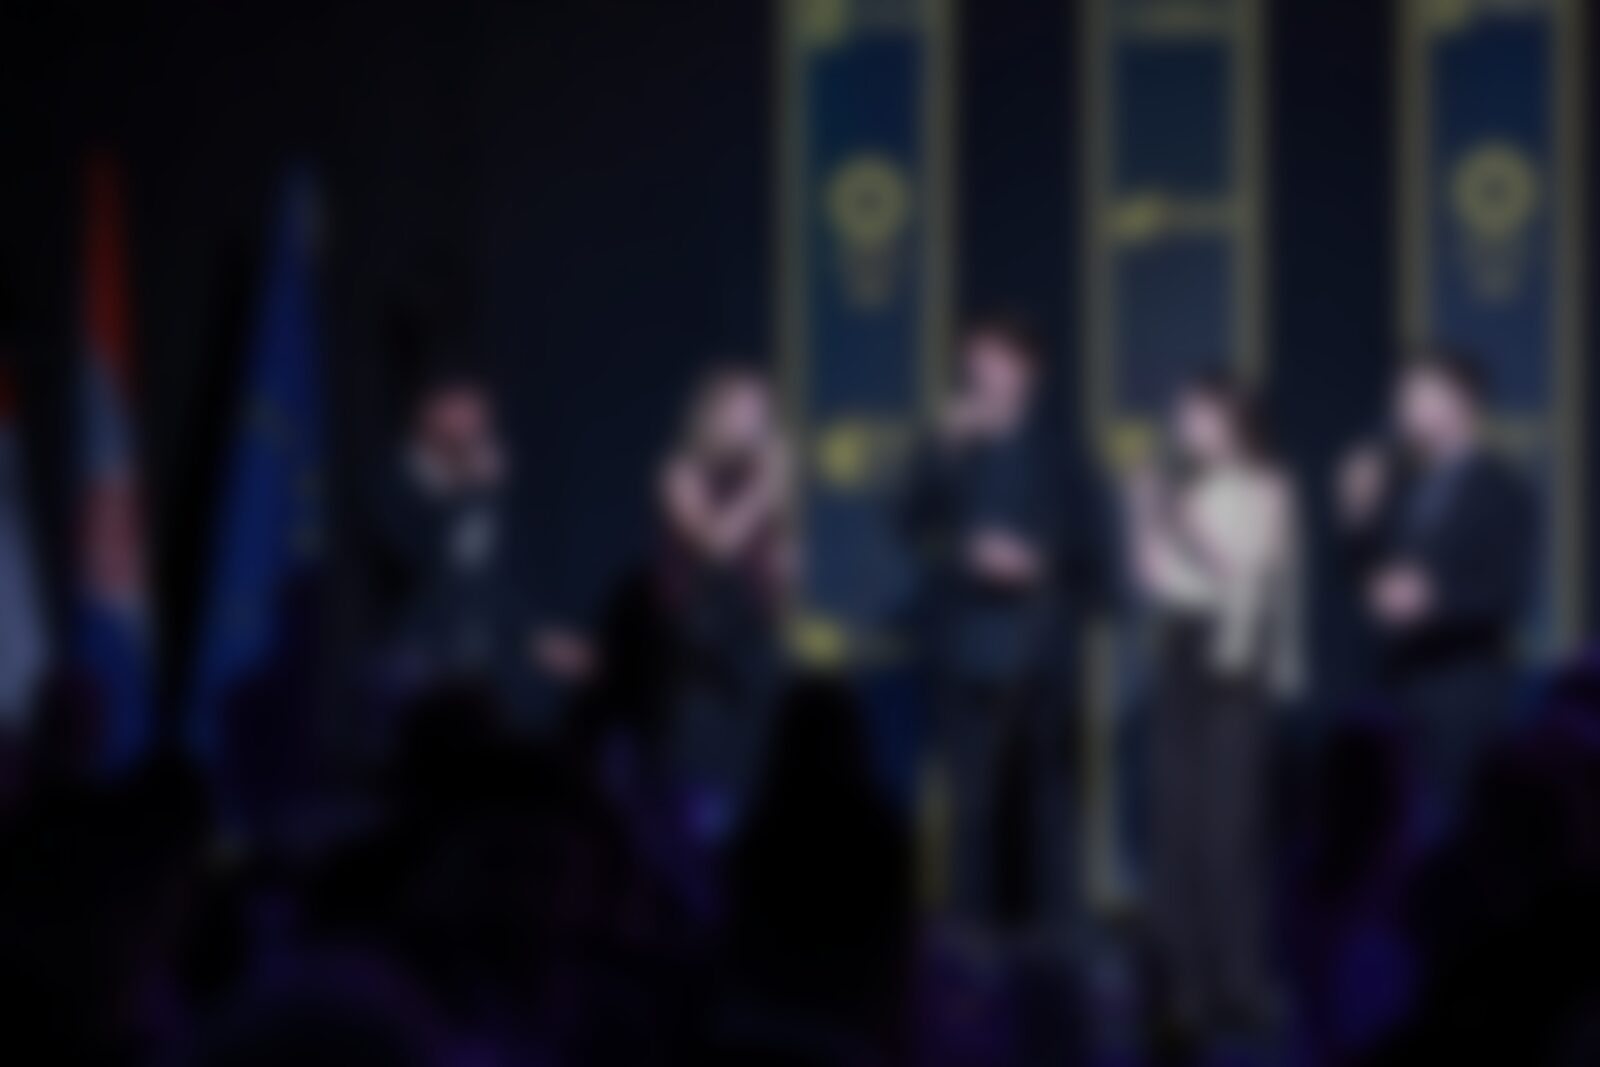
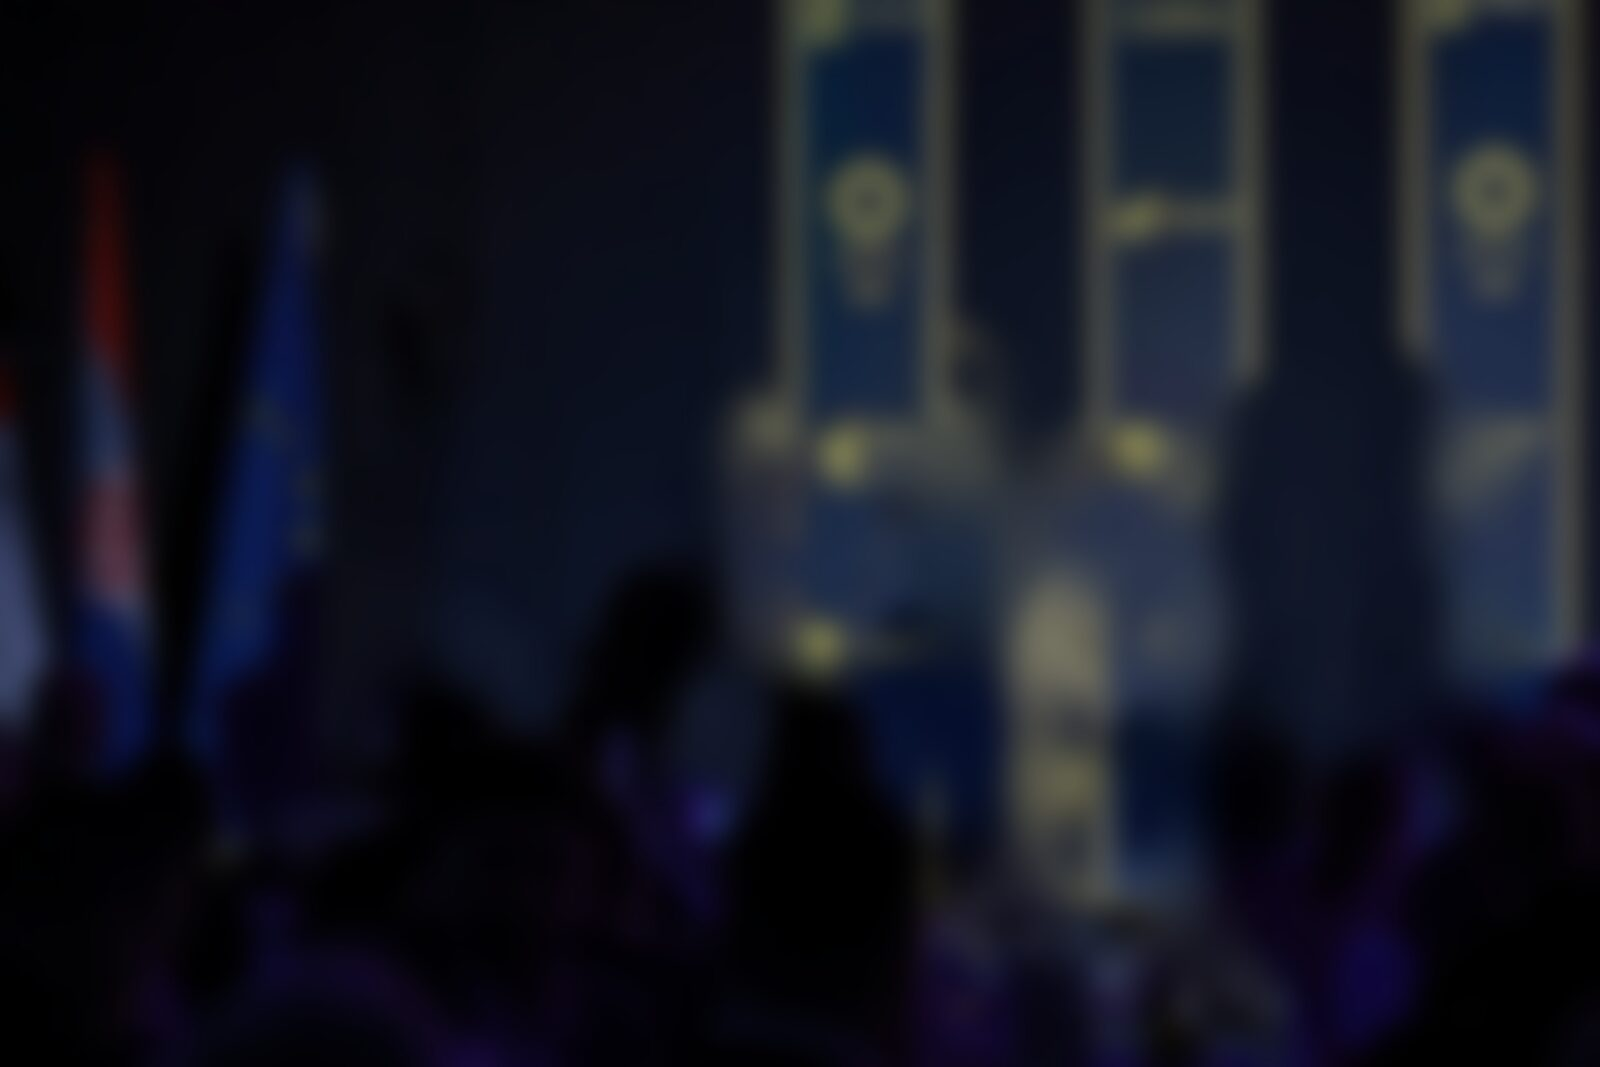
Home hero: crop per breakpoint, clean matte, soft light rim (#67) (#69)
* Home hero: crop per breakpoint, clean matte, soft light rim (#67)

Desktop anchors the five right of the lead, so no text crosses a face,
hand or microphone; phones and every portrait screen get a 17:9 window
from just above the heads to the thighs (the portrait tablet lost
singer 5). The matte gets tight second tiles for singers 2-4, a close
for the stands, a steep ramp, a hole fill and drawn fixes; the far
plane has the singers inpainted out, so no ghost halo. A new rim plane
puts a soft white back-light around the five (Josip chose it over a
sticker stroke or a frame).

* Hero: lift without --fig-w, heads below the headline on short windows, review tidy (#67)

* Remove the PR screenshots

* Hero: size the singers' box from the stage's real height, never under 34rem (#67, review round 2)

On a window shorter than 34rem plus the header the stage keeps its
min-block-size, so --stage-h undersized the box and the headline cap
could reach zero.

---------

diff --git a/src/data/photos.ts b/src/data/photos.ts
@@ -25,6 +25,7 @@ import stageZlokicJozinovic from '@/assets/photos/stage-zlokic-jozinovic.jpg';
 // Home (ticket B): the hero's depth planes and the chord's five portraits.
 import heroFar from '@/assets/photos/home/hero-far.jpg';
 import heroFront from '@/assets/photos/home/hero-front.webp';
+import heroRim from '@/assets/photos/home/hero-rim.webp';
 import heroSubject from '@/assets/photos/home/hero-subject.webp';
 import portraitAnte from '@/assets/photos/home/portrait-ante.jpg';
 import portraitDavid from '@/assets/photos/home/portrait-david.jpg';
@@ -198,13 +199,15 @@ export const SHARE_PHOTO: PhotoKey = 'unisportStage';
  * (Westin, Zagreb; Drive `2026 Hrvatski Akademski Sportski Savez` ›
  * `Unisport_stars_R1JC7655_JC.jpg`, all five singing) and sharing its
  * 1800×1200 crop (3:2), so they line up by stacking. `far` is the whole crop
- * at 1600 px, defocused and dimmed, `subject` the five singers on alpha (Apple Vision
- * person matte, one tile per singer), `front` the audience below the stage
- * line. Recipe: docs/home/BRIEF.md › Hero planes.
+ * at 1600 px with the singers taken out, defocused and dimmed, `subject` the five
+ * singers on alpha (Apple Vision person matte, one tile per singer), `rim` a soft
+ * white back-light around them (#67), `front` the audience below the stage line.
+ * Recipe: docs/home/BRIEF.md › Hero planes.
  */
 export const HERO_PLANES = {
   far: heroFar,
   subject: heroSubject,
+  rim: heroRim,
   front: heroFront,
   alt: {
     en: 'The five singers of Voxford singing at microphones on the Unisport Stars gala stage, the audience in silhouette in front',

diff --git a/scripts/hero-planes/planes.py b/scripts/hero-planes/planes.py
@@ -1,8 +1,8 @@
-"""Build the home hero planes (far, subject, front) from the 1800x1200 crop and
+"""Build the home hero planes (far, subject, front, rim) from the 1800x1200 crop and
 the per-tile Vision mattes that scripts/hero-planes/build.sh writes into <work>."""
 import sys
 import numpy as np
-from PIL import Image, ImageFilter
+from PIL import Image, ImageDraw, ImageFilter
 
 d = sys.argv[1]
 crop = Image.open(f'{d}/crop.png').convert('RGB')
@@ -14,6 +14,18 @@ def ramp(a, b):  # 1 above a, 0 below b
 
 def ramp_down(a, b):  # 0 above a, 1 below b
     return 1 - ramp(a, b)
+
+def to_image(a):  # a 0..1 float array as an 8-bit greyscale image
+    return Image.fromarray((np.clip(a, 0, 1) * 255).astype(np.uint8))
+
+def to_array(img):  # an 8-bit greyscale image as a 0..1 float array
+    return np.asarray(img, np.float32) / 255
+
+def filled(mask):  # a boolean mask with every enclosed hole filled
+    pad = Image.new('L', (W + 2, H + 2), 0)
+    pad.paste(to_image(mask), (1, 1))
+    ImageDraw.floodfill(pad, (0, 0), 128)
+    return np.asarray(pad, np.uint8)[1:-1, 1:-1] != 128
 
 # Singers: tile x offset, tile y offset, column x0..x1, fade start..end
 singers = [
@@ -29,6 +41,19 @@ for i, tx, ty, x0, x1, f0, f1 in singers:
     full = np.zeros((H, W), np.float32)
     h, w = m.shape
     full[ty:ty + h, tx:tx + w] = m[: H - ty, : W - tx]
+    for bi, bx, by in ((2, 690, 380), (3, 975, 330), (4, 1215, 400)):
+        if i == bi:
+            mb = np.asarray(Image.open(f'{d}/tmask{i}b.png').convert('L'), np.float32) / 255
+            hb, wb = mb.shape
+            if i == 4:
+                # Singer 4's wide tile takes a block of the sponsor banner around
+                # her hand and microphone; the tight one alone is clean.
+                full[:] = 0
+            full[by:by + hb, bx:bx + wb] = np.maximum(full[by:by + hb, bx:bx + wb], mb)
+    # Close the narrow gaps a microphone stand cuts through a singer: the
+    # stand stands in front of them, so it belongs to this plane.
+    closed = to_array(to_image(full > 0.3).filter(ImageFilter.MaxFilter(25)).filter(ImageFilter.MinFilter(25)))
+    full = np.maximum(full, closed)
     col = np.zeros((1, W), np.float32)
     col[0, x0:x1] = 1
     full *= col * ramp(f0, f1)
@@ -40,8 +65,46 @@ drape = np.zeros((H, W), np.float32)
 drape[500:800, 1395:1480] = np.clip((lum[500:800, 1395:1480] - 0.42) / 0.18, 0, 1)
 subject = np.maximum(subject, drape * ramp(1090, 1150))
 
-# Clean the matte: drop faint noise, keep soft edges.
-subject = np.clip((subject - 0.08) / 0.32, 0, 1)
+# Clean the matte: drop faint noise, keep soft edges. Vision's outlines are
+# crisp; its faint values sit inside dark clothes and on the microphones, so a
+# low, steep ramp makes those solid without growing a halo.
+subject = np.clip((subject - 0.04) / 0.16, 0, 1)
+# Fill what the matte still encloses (singer 4's dark trousers): a hole there
+# showed the far plane through her.
+hard = subject > 0.5
+subject = np.maximum(subject, (filled(hard) & ~hard).astype(np.float32))
+
+# Hand fixes, after the hole fill so it cannot close them again.
+# Singer 2's tight tile takes in the gold foundation logo beside her hip.
+box = (slice(600, 820), slice(860, 990))
+rgbf = np.asarray(crop, np.float32)[box]
+gold = (rgbf[..., 0] - rgbf[..., 2] > 50) & (rgbf[..., 1] > 80)
+subject[box][gold] = 0
+# ...and a stand and a dark audience head on either side of her.
+subject[560:760, 945:990] = 0
+subject[620:800, 700:742] = 0
+# Vision takes a block of the sponsor banner (navy ground, logo, lettering)
+# around singer 4's hand and microphone. Inside that block keep only the
+# microphone and her hand, drawn by hand on the 1800x1200 crop.
+keep = Image.new('L', (W, H), 0)
+draw = ImageDraw.Draw(keep)
+draw.line([(1250, 542), (1332, 488)], fill=255, width=15)
+draw.polygon([(1270, 506), (1300, 499), (1303, 522), (1299, 536), (1301, 582), (1270, 582), (1266, 546)], fill=255)
+keep = np.asarray(keep.filter(ImageFilter.GaussianBlur(1)), np.float32) / 255
+box = (slice(478, 582), slice(1246, 1322))
+subject[box] = np.minimum(subject[box], keep[box])
+# The lettering runs on under her chin, left of her hair: drop its navy
+# ground and pale or yellow letters there; her hair is darker than all three.
+box = (slice(518, 550), slice(1299, 1346))
+r, g, b = (np.asarray(crop, np.float32)[box][..., k] for k in range(3))
+lo, hi = np.minimum(np.minimum(r, g), b), np.maximum(np.maximum(r, g), b)
+subject[box][(b > r) | ((lo > 140) & (hi - lo < 70)) | ((r - b > 40) & (g > 100) & (np.abs(r - g) < 50))] = 0
+# Above that, beside her chin, one yellow letter and its navy ground.
+box = (slice(486, 518), slice(1318, 1340))
+r, g, b = (np.asarray(crop, np.float32)[box][..., k] for k in range(3))
+subject[box][(b > r) | ((r - b > 40) & (g > 100) & (np.abs(r - g) < 50))] = 0
+# Singer 4's tight tile takes in an audience head beside her legs; the front row has it.
+subject[860:1150, 1440:1490] = 0
 subject = np.asarray(Image.fromarray((subject * 255).astype(np.uint8)).filter(ImageFilter.GaussianBlur(1.2)), np.float32) / 255
 
 # Front: the audience. Vision finds the lit heads on the left; the dark band
@@ -61,9 +124,40 @@ for name, a in (('subject', subject), ('front', front)):
     rgba = np.dstack([rgb, (a * 255).astype(np.uint8)])
     Image.fromarray(rgba, 'RGBA').save(f'{d}/hero-{name}.png')
 
+# Rim: a soft white back-light around the five, under the subject (#67). Drawn
+# from the matte with its holes filled and its specks opened away, and faded
+# out above each singer's cut line, where the front row takes over.
+solid = to_image(filled(subject > 0.5)).filter(ImageFilter.MinFilter(13)).filter(ImageFilter.MaxFilter(13))
+fade = np.ones((H, W), np.float32)
+for _, _, _, x0, x1, f0, _ in singers:
+    fade[:, x0:x1] = np.clip((f0 - 30 - ys) / 90, 0, 1)
+glow = to_array(solid.filter(ImageFilter.MaxFilter(9)).filter(ImageFilter.GaussianBlur(10)))
+rim = np.clip(glow - to_array(solid.filter(ImageFilter.GaussianBlur(1.5))), 0, 1) * fade * 0.55
+rgba = np.zeros((H, W, 4), np.uint8)
+rgba[..., :3] = 255
+rgba[..., 3] = (rim * 255).astype(np.uint8)
+Image.fromarray(rgba, 'RGBA').save(f'{d}/hero-rim.png')
+
 # Far: the whole frame, defocused, dimmed and a little desaturated so the
 # sponsor banners read as light, not logos.
-far = crop.resize((1600, 1067), Image.LANCZOS).filter(ImageFilter.GaussianBlur(14))
+# The singers are taken out first: blurred in place they left a soft ghost
+# around each sharp singer, which read as a cut-out halo. Their area is filled
+# from the backdrop around it (normalised blur), then the whole frame is defocused.
+hole = np.asarray(Image.fromarray((subject * 255).astype(np.uint8)).filter(ImageFilter.MaxFilter(9)).filter(ImageFilter.GaussianBlur(4)), np.float32) / 255
+src = np.asarray(crop, np.float32)
+known = hole < 0.02
+fill = src * known[:, :, None]
+def blur(a, r):
+    return np.asarray(Image.fromarray(np.clip(a, 0, 255).astype(np.uint8)).filter(ImageFilter.GaussianBlur(r)), np.float32)
+for r in (8, 16, 32, 64, 128):
+    num = blur(fill, r)
+    den = blur(known.astype(np.float32) * 255, r)[:, :, None] / 255
+    est = num / np.maximum(den, 1e-3)
+    reached = (den[:, :, 0] > 0.05) & ~known
+    fill[reached] = est[reached]
+    known = known | reached
+clean = Image.fromarray(np.clip(src * (1 - hole[:, :, None]) + fill * hole[:, :, None], 0, 255).astype(np.uint8))
+far = clean.resize((1600, 1067), Image.LANCZOS).filter(ImageFilter.GaussianBlur(14))
 arr = np.asarray(far, np.float32)
 grey = arr.mean(axis=2, keepdims=True)
 arr = (grey + (arr - grey) * 0.75) * 0.78

diff --git a/docs/home/BRIEF.md b/docs/home/BRIEF.md
@@ -125,23 +125,43 @@ the stage glow a little (`--sc-p`) and holds the stage pinned while the music pl
 
 The hero headline is "Five voices. One harmony." / "Pet glasova. Jedan sklad." (Josip, #31); the
 H1 also carries the group's disambiguation line, visually hidden, so it still says who Voxford
-is. The three planes are cut from Drive `Photo › 2026 Hrvatski Akademski Sportski Savez ›
-Unisport_stars_R1JC7655_JC.jpg` by `scripts/hero-planes/build.sh` (on the machine that made
-them, macOS 26 with the same ImageMagick and cwebp, a rerun reproduces the committed files byte
-for byte; Vision and the encoders may differ elsewhere). The caption credits "Jozo Cabraja /
-kolektiff", the file's mandatory credit, confirmed for #31:
+is. The four planes are cut from Drive `Photo › 2026 Hrvatski Akademski Sportski Savez ›
+Unisport_stars_R1JC7655_JC.jpg` (2400×1600, the largest export there) by
+`scripts/hero-planes/build.sh` (on the machine that made them, macOS 26 with the same
+ImageMagick and cwebp, a rerun reproduces the committed files byte for byte; Vision and the
+encoders may differ elsewhere). The caption credits "Jozo Cabraja / kolektiff", the file's
+mandatory credit, confirmed for #31:
 
-- **Crop:** 1800×1200 at (360, 268) of the 2400×1600 frame, so the five stand between 22% and
-  97% of the width (the phone composition starts the frame at 18.5%) and the headline clears
-  the first singer's cap at 1440×900. The sponsor banners stay behind the singers; they only
+- **Crop:** 1800×1200 at (360, 268) of the 2400×1600 frame; the five stand between x 392 and
+  1730 of it, their heads from y 348. The sponsor banners stay behind the singers; they only
   show, defocused, in `far`.
 - **subject:** an Apple Vision person matte (`VNGeneratePersonSegmentationRequest`, accurate)
   run on one tile per singer, kept to that singer's column and faded out where the audience
-  covers them; on the whole frame Vision misses the singer in the dark on the left. The fourth
-  singer's white drape is added by luminance (Vision leaves it out).
+  covers them; on the whole frame Vision misses the singer in the dark on the left. Since #67:
+  - Singers 2, 3 and 4 get a second, tighter tile, which keeps singer 2's middle and singer 3's
+    left side. Singer 4 uses only hers: the wide one takes a block of banner around her
+    microphone.
+  - A close per singer puts the stands in front of them into the plane.
+  - A steep ramp (0.04 → 0.20) and a hole fill make dark clothes solid.
+  - A few drawn fixes after the hole fill remove banner and audience bits the tiles pick up.
+  - The fourth singer's white drape is added by luminance (Vision leaves it out).
+- **rim:** a soft white back-light around the five (#67, Josip chose it over a sticker stroke
+  or a frame): the filled silhouette grown and blurred, minus itself, at 55%, faded out above
+  each singer's cut line. It sits under `subject` and moves with it.
 - **front:** the audience: Vision's matte where it finds the lit heads, plus a band below the
   stage line, minus the singers.
-- **far:** the whole crop at 1600 px, blurred, dimmed to 78% and desaturated by a quarter.
+- **far:** the whole crop at 1600 px with the singers inpainted out first (#67: blurred in
+  place they left a ghost halo around the sharp singers), blurred, dimmed to 78% and
+  desaturated by a quarter.
+
+**Composition (#67).**
+- **Landscape at 48rem and up:** `far` covers the stage. `subject`, `rim` and `front` share one
+  3:2 box, anchored right, so the frame's x 380–1760 runs from the end of the lead to the right
+  gutter. The box is lifted 5.5% of the stage height and capped at 1.45 × it, lower still on a
+  short window so the heads stay below the headline. No text crosses a face, hand or
+  microphone, and the widget crosses nobody above the knee.
+- **Phones and every portrait screen:** the flow layout, with a 17:9 window on the frame's
+  x 333–1750, y 250–1000: from just above the heads to the thighs, faded top and bottom.
 
 ## Fingerprint gate
 
